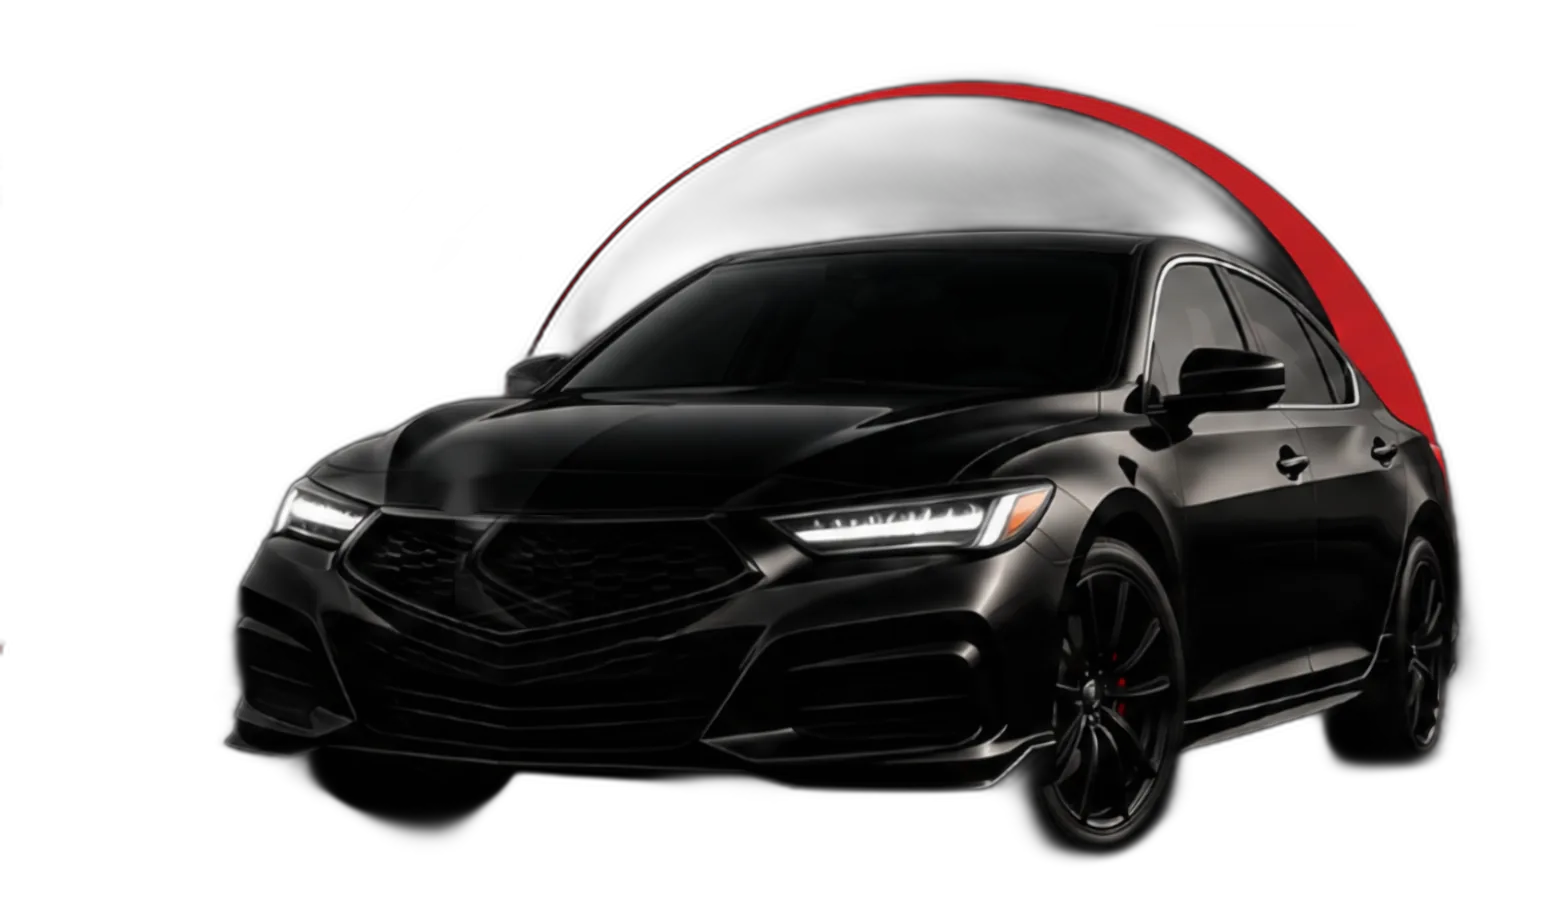
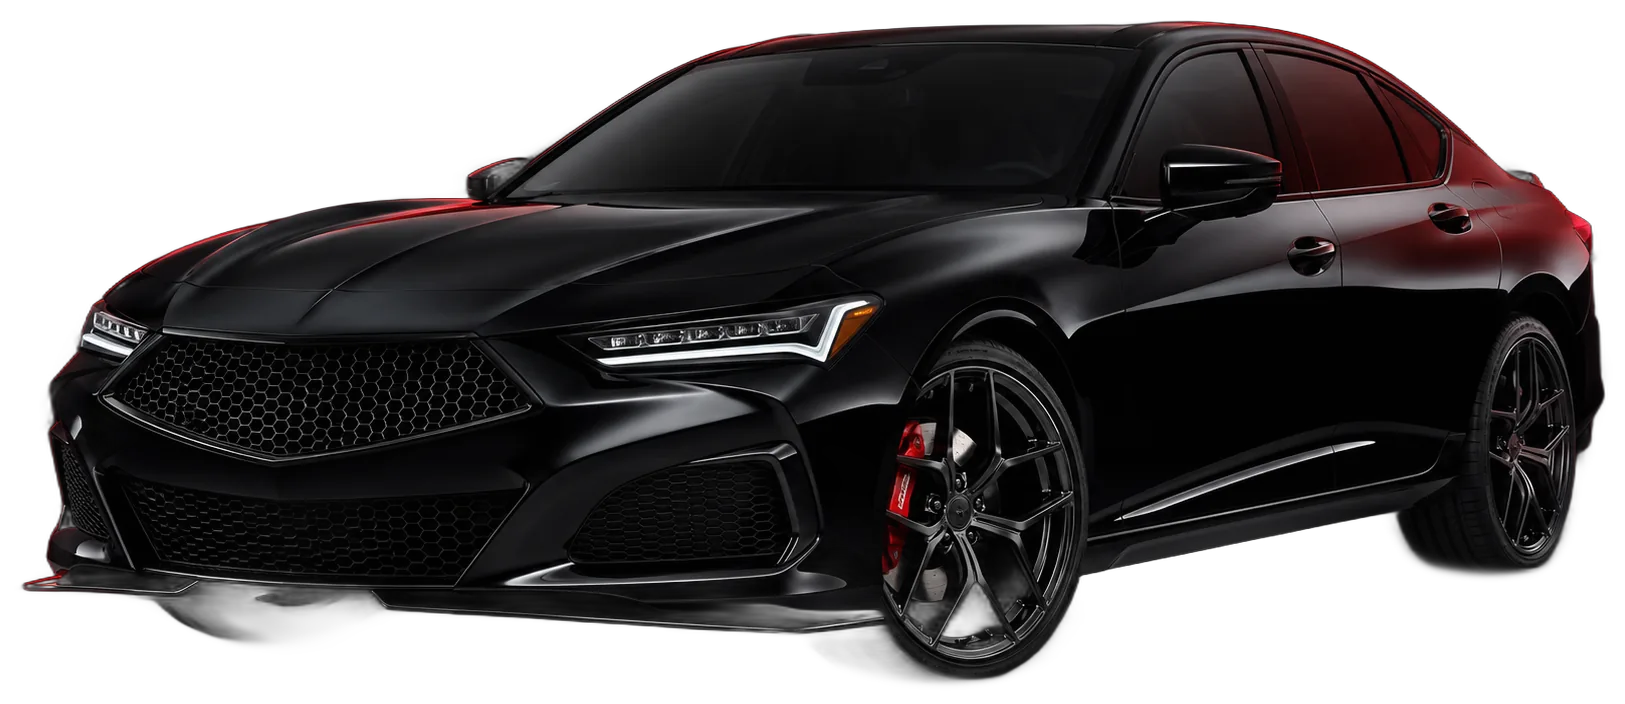
[SPRINT-V21] ASSET2: native badgeless render + code arc (supersedes inpaint)
OWNER SIGN-OFF RECORDED (verbatim, supersedes previous): 'The production hero
asset is AI-generated imagery (owner-commissioned render of a black
second-generation sedan with aftermarket badgeless grille, black studio
background, extracted via BiRefNet-family pipeline at native resolution).
Owner explicitly signs off on this asset for production use.'

Canonical source: src/assets/hero-car-final-v2.png (1625x704 RGBA, native,
no upscale; the v1 inpainted file is removed). Derivatives regenerated:
AVIF 52.5KB (q60) / WebP 111.3KB (q82) - both within the 120KB budget (WebP
close to cap, noted). <picture>/img dims updated to 1625x704 on all three
heroes; crops retuned for the wider 2.31 aspect (home 58vw / dealers 50vw /
exporters 46vw).
RED ARC -> CODE: HeroArc.jsx (inline SVG, exact #d70f24, single ~230deg
sweep approximating the banner arc, aria-hidden, static markup - prerender-
safe, absolute layer - zero CLS), painted behind the car by DOM order inside
PhotoEmergence; one component, per-page position/scale classes. Budget
accounting unchanged (arc = the recorded second accent). In-photo detail:
red brake caliper in the wheel, muted by the palette grade - noted.
H1/img bbox overlap 0 on all three at 1440px.

diff --git a/src/pages/Dealers.jsx b/src/pages/Dealers.jsx
@@ -11,6 +11,7 @@ import v2b from '../styles/v2/buttons.module.css';
 import v2c from '../styles/v2/cards.module.css';
 import v2a from '../styles/v2/accents.module.css';
 import v2h from '../styles/v2/hero.module.css';
+import HeroArc from '../components/HeroArc';
 
 // DESIGN-V2-W4-T01: Dispatch Board restyle. SEO contract frozen: every heading
 // text/level, i18n keys, section order, schema emission, EntityTldr position,
@@ -90,10 +91,11 @@ export default function Dealers() {
         {/* SPRINT-V21 W-CONV: photo emergence (same de-badged asset, tighter
             low-right crop than home). Decorative, aria-hidden, CLS 0. */}
         <div className={`${v2h.photoEmergence} ${styles.heroPhoto}`} aria-hidden="true">
+          <HeroArc className={styles.heroArc} />
           <picture>
             <source srcSet="/images/hero-car.avif" type="image/avif" />
             <source srcSet="/images/hero-car.webp" type="image/webp" />
-            <img src="/images/hero-car.webp" alt="" width="1560" height="900" loading="eager" decoding="async" />
+            <img src="/images/hero-car.webp" alt="" width="1625" height="704" loading="eager" decoding="async" />
           </picture>
         </div>
         <div className={`${v2s.inner} ${styles.heroLayout}`}>

diff --git a/src/pages/Exporters.jsx b/src/pages/Exporters.jsx
@@ -18,6 +18,7 @@ import v2c from '../styles/v2/cards.module.css';
 import v2a from '../styles/v2/accents.module.css';
 import v2f from '../styles/v2/forms.module.css';
 import v2h from '../styles/v2/hero.module.css';
+import HeroArc from '../components/HeroArc';
 
 // DESIGN-V2-W4-T02: Dispatch Board restyle. SEO contract frozen: every heading
 // text/level, i18n keys, schema call sites, EntityTldr position (first element
@@ -153,10 +154,11 @@ export default function Exporters() {
             more cropped placement than home so the program CTA row stays
             clear). Decorative, aria-hidden, CLS 0. */}
         <div className={`${v2h.photoEmergence} ${styles.heroPhoto}`} aria-hidden="true">
+          <HeroArc className={styles.heroArc} />
           <picture>
             <source srcSet="/images/hero-car.avif" type="image/avif" />
             <source srcSet="/images/hero-car.webp" type="image/webp" />
-            <img src="/images/hero-car.webp" alt="" width="1560" height="900" loading="eager" decoding="async" />
+            <img src="/images/hero-car.webp" alt="" width="1625" height="704" loading="eager" decoding="async" />
           </picture>
         </div>
         <div className={`${v2s.inner} ${styles.heroLayout}`}>

diff --git a/src/pages/Home.jsx b/src/pages/Home.jsx
@@ -20,6 +20,7 @@ import v2t from '../styles/v2/type.module.css';
 import v2b from '../styles/v2/buttons.module.css';
 import v2c from '../styles/v2/cards.module.css';
 import v2h from '../styles/v2/hero.module.css';
+import HeroArc from '../components/HeroArc';
 import v2a from '../styles/v2/accents.module.css';
 
 export default function Home() {
@@ -57,10 +58,11 @@ export default function Home() {
           <link rel="preload" as="image" href="/images/hero-car.avif" type="image/avif" />
         </Helmet>
         <div className={`${v2h.photoEmergence} ${styles.heroPhoto}`} aria-hidden="true">
+          <HeroArc className={styles.heroArc} />
           <picture>
             <source srcSet="/images/hero-car.avif" type="image/avif" />
             <source srcSet="/images/hero-car.webp" type="image/webp" />
-            <img src="/images/hero-car.webp" alt="" width="1560" height="900" loading="eager" fetchPriority="high" decoding="async" />
+            <img src="/images/hero-car.webp" alt="" width="1625" height="704" loading="eager" fetchPriority="high" decoding="async" />
           </picture>
         </div>
         <div className={`${v2s.inner} ${styles.heroLayout}`}>

diff --git a/src/components/HeroArc.jsx b/src/components/HeroArc.jsx
@@ -1,0 +1,31 @@
+import styles from '../styles/v2/hero.module.css';
+
+/**
+ * HeroArc — SPRINT-V21 ASSET2: the brand banner's red arc, recreated in code
+ * (the previous asset had it baked in). Inline SVG, exact #d70f24 stroke,
+ * geometry approximating the reference banner's sweep. Decorative, aria-hidden,
+ * prerender-safe (static markup), zero-CLS (absolute layer inside
+ * PhotoEmergence, painted BEHIND the car by DOM order).
+ * One component; per-page position/scale via the className prop.
+ */
+export default function HeroArc({ className }) {
+  return (
+    <svg
+      className={`${styles.heroArc} ${className || ''}`}
+      viewBox="0 0 400 400"
+      fill="none"
+      aria-hidden="true"
+      role="presentation"
+      xmlns="http://www.w3.org/2000/svg"
+    >
+      {/* Single bold sweep: lower-left, over the crown, down the right —
+          the banner's arc segment (~230 degrees of a circle). */}
+      <path
+        d="M 52 306 A 168 168 0 1 1 362 238"
+        stroke="#d70f24"
+        strokeWidth="17"
+        strokeLinecap="round"
+      />
+    </svg>
+  );
+}

diff --git a/src/pages/Home.module.css b/src/pages/Home.module.css
@@ -57,9 +57,9 @@
    900px the photo is hidden entirely (mobile degradation: contrast + LCP
    protection; the hero reverts to pure V2 typography). */
 .heroPhoto img {
-  right: -2%;
-  bottom: -4%;
-  width: min(52vw, 820px);
+  right: -3%;
+  bottom: 0;
+  width: min(58vw, 940px);
 }
 
 @media (min-width: 901px) {
@@ -143,3 +143,13 @@
   text-align: center;
 }
 
+
+/* SPRINT-V21 ASSET2: v2 asset is 1625x704 (wider/lower than v1) — retuned
+   crop; arc behind the car crown, upper right. */
+.heroPhoto .heroArc {
+  right: 2%;
+  bottom: 12%;
+  width: min(34vw, 540px);
+  height: auto;
+  aspect-ratio: 1;
+}

diff --git a/src/pages/Dealers.module.css b/src/pages/Dealers.module.css
@@ -497,13 +497,21 @@
 /* SPRINT-V21 W-CONV: hero photo (tighter low-right crop than home; hidden
    below 900px — pure V2 typography degradation, per the approved pattern). */
 .heroPhoto img {
-  right: -6%;
-  bottom: -10%;
-  width: min(44vw, 700px);
+  right: -7%;
+  bottom: -4%;
+  width: min(50vw, 800px);
 }
 @media (min-width: 901px) {
   .heroText { max-width: 60%; }
 }
 @media (max-width: 900px) {
   .heroPhoto { display: none; }
+}
+
+/* ASSET2 retune + arc. */
+.heroPhoto .heroArc {
+  right: -2%;
+  bottom: -6%;
+  width: min(28vw, 430px);
+  aspect-ratio: 1;
 }

diff --git a/src/pages/Exporters.module.css b/src/pages/Exporters.module.css
@@ -732,12 +732,20 @@
 /* SPRINT-V21 W-CONV: hero photo (smaller, right-anchored, raised crop). */
 .heroPhoto img {
   right: -8%;
-  bottom: 6%;
-  width: min(40vw, 640px);
+  bottom: 8%;
+  width: min(46vw, 730px);
 }
 @media (min-width: 901px) {
   .heroText { max-width: 58%; }
 }
 @media (max-width: 900px) {
   .heroPhoto { display: none; }
+}
+
+/* ASSET2 retune + arc. */
+.heroPhoto .heroArc {
+  right: -3%;
+  bottom: 10%;
+  width: min(26vw, 400px);
+  aspect-ratio: 1;
 }

diff --git a/src/styles/v2/hero.module.css b/src/styles/v2/hero.module.css
@@ -136,3 +136,11 @@
     right: -12%;
   }
 }
+
+/* SPRINT-V21 ASSET2: the banner arc, in code (HeroArc.jsx). Absolute layer
+   inside photoEmergence, painted behind the car by DOM order; pages position
+   and scale it with their own class. Counts as ONE red accent per the
+   Signal Budget accounting recorded at the gates. */
+.heroArc {
+  position: absolute;
+}
